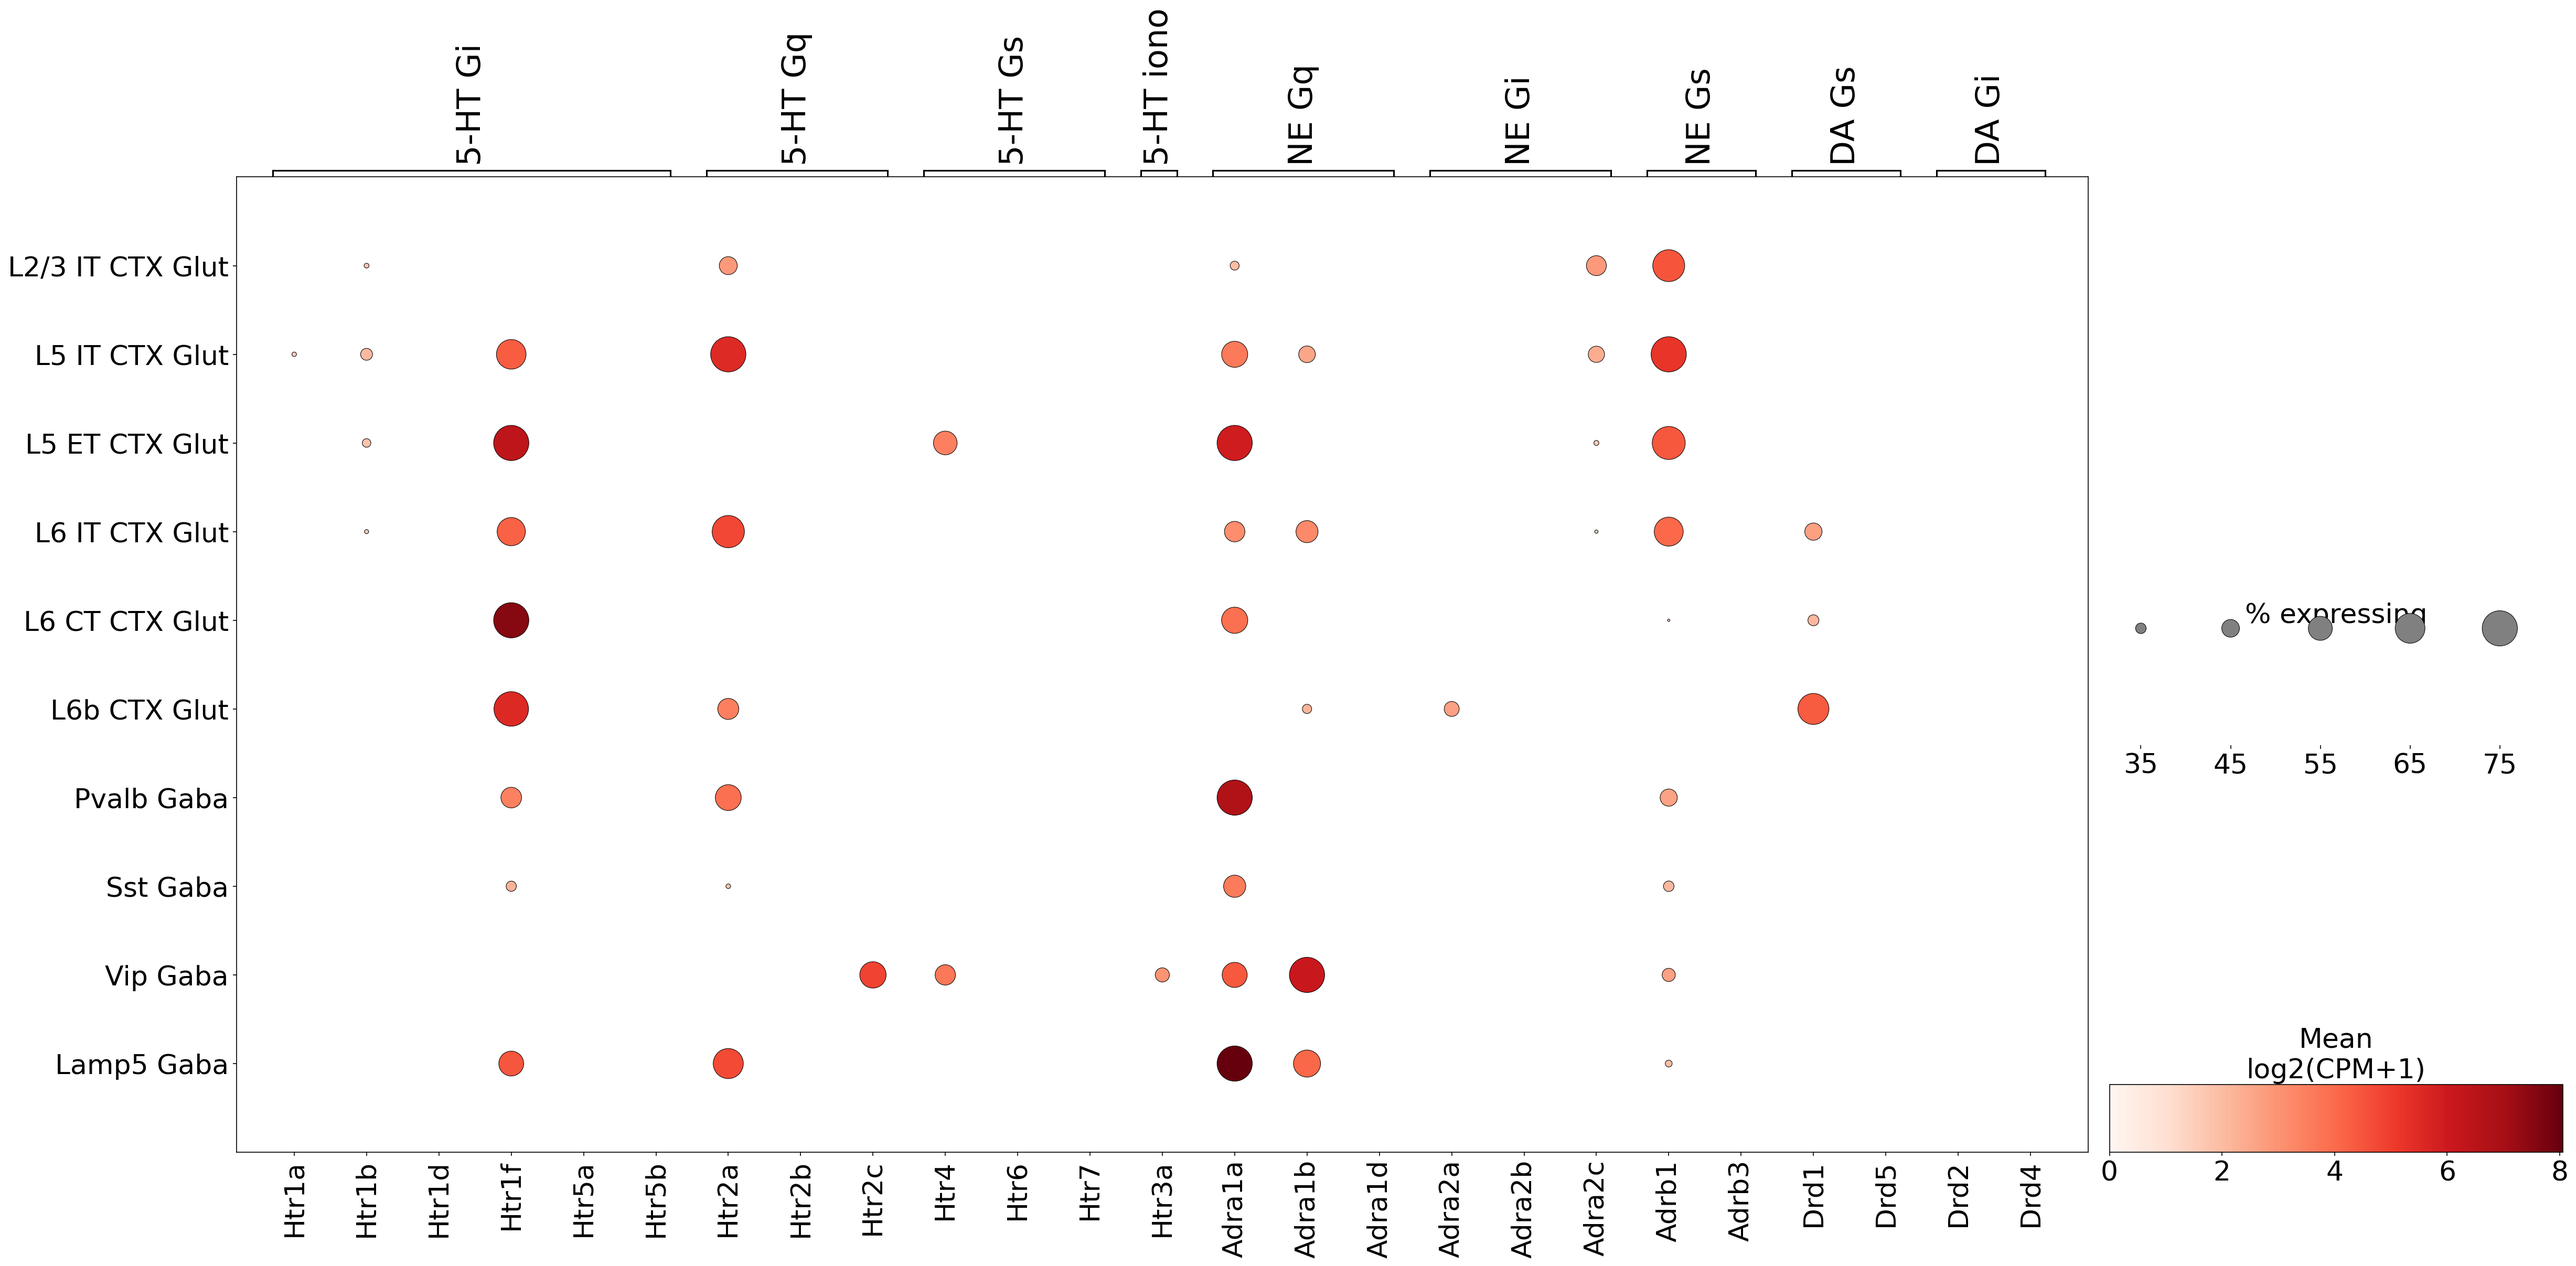
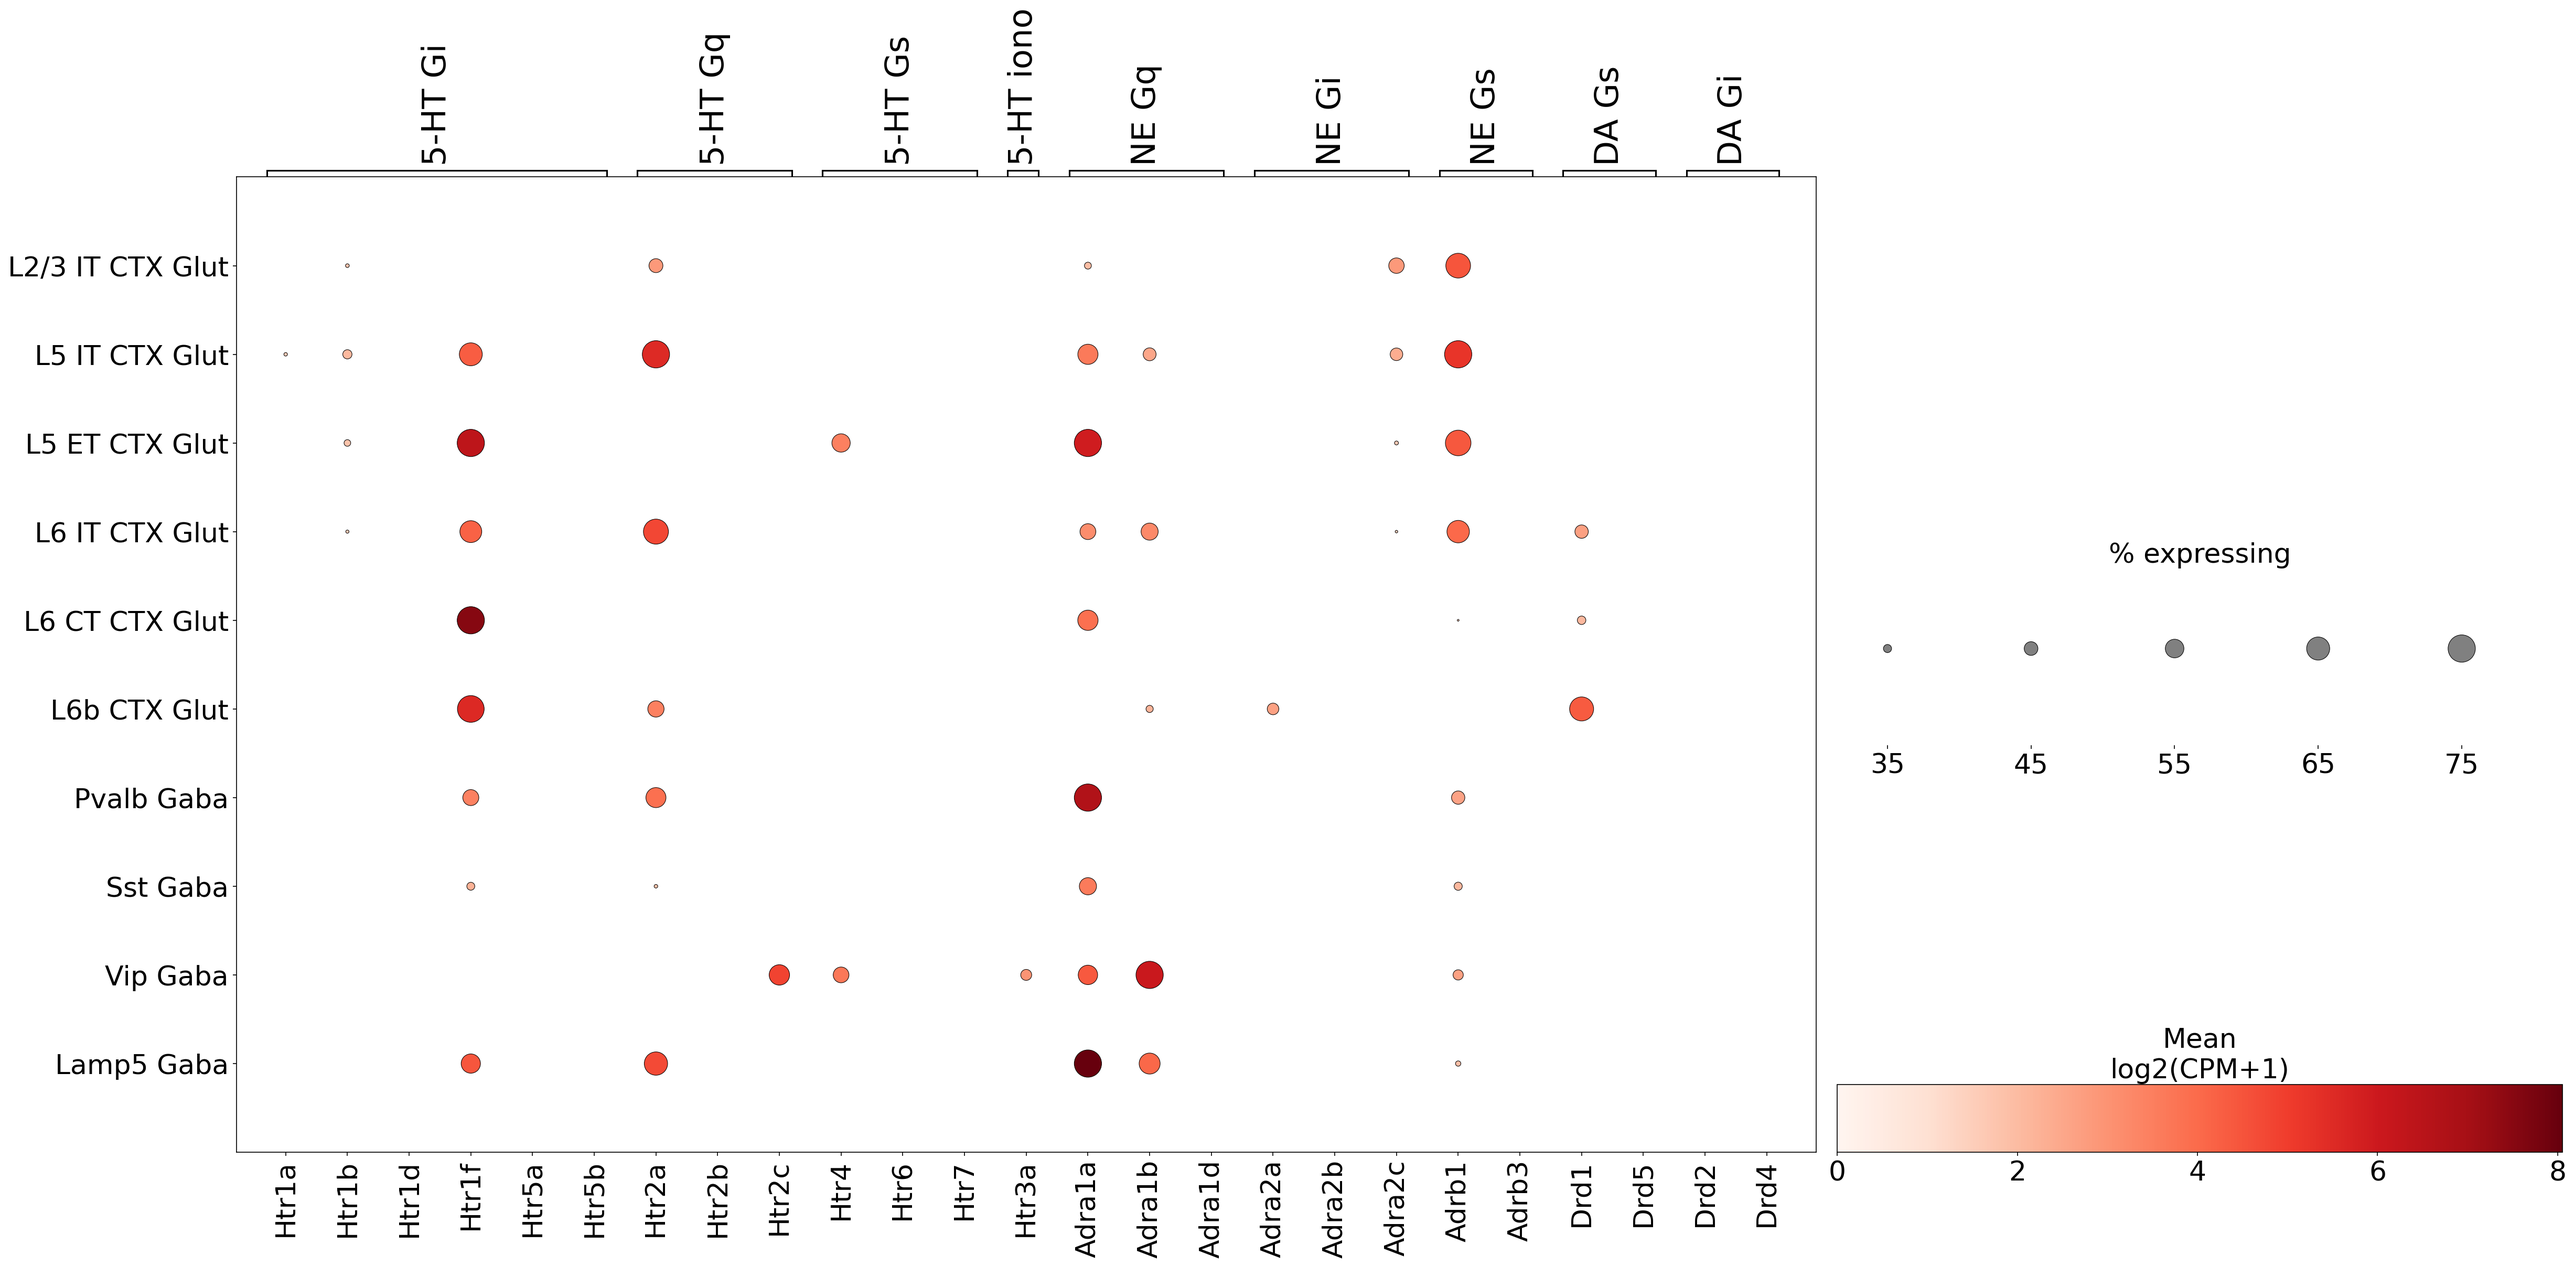
Fix size-legend title overlapping dots in 10x mPFC dot plot
With FONT_SCALE=3 the '% expressing' title rendered close enough to
the dot row to visibly overlap the larger circles. Pad the size_title
with trailing newlines so it sits clearly above the dots, and clip the
dot range slightly via a smaller largest_dot.

diff --git a/notebooks/regenerate_mpfc_10x_dotplot.py b/notebooks/regenerate_mpfc_10x_dotplot.py
@@ -159,13 +159,14 @@ def main():
         dot_min=0.25,
         dot_max=0.75,
         colorbar_title='Mean\nlog2(CPM+1)',
-        size_title='% expressing',
+        size_title='% expressing\n\n',
         show=False,
         return_fig=True,
     )
     dp.style(dot_edge_color='black', dot_edge_lw=0.5,
-             largest_dot=200 * (FONT_SCALE ** 1.5))
-    dp.legends_width = 2.5 * FONT_SCALE
+             largest_dot=120 * (FONT_SCALE ** 1.5))
+    dp.legends_width = 4.0 * FONT_SCALE
+
 
     out = OUTPUT_DIR / 'dotplot_mPFC_10x_receptors.png'
     dp.savefig(out, dpi=150, bbox_inches='tight')
